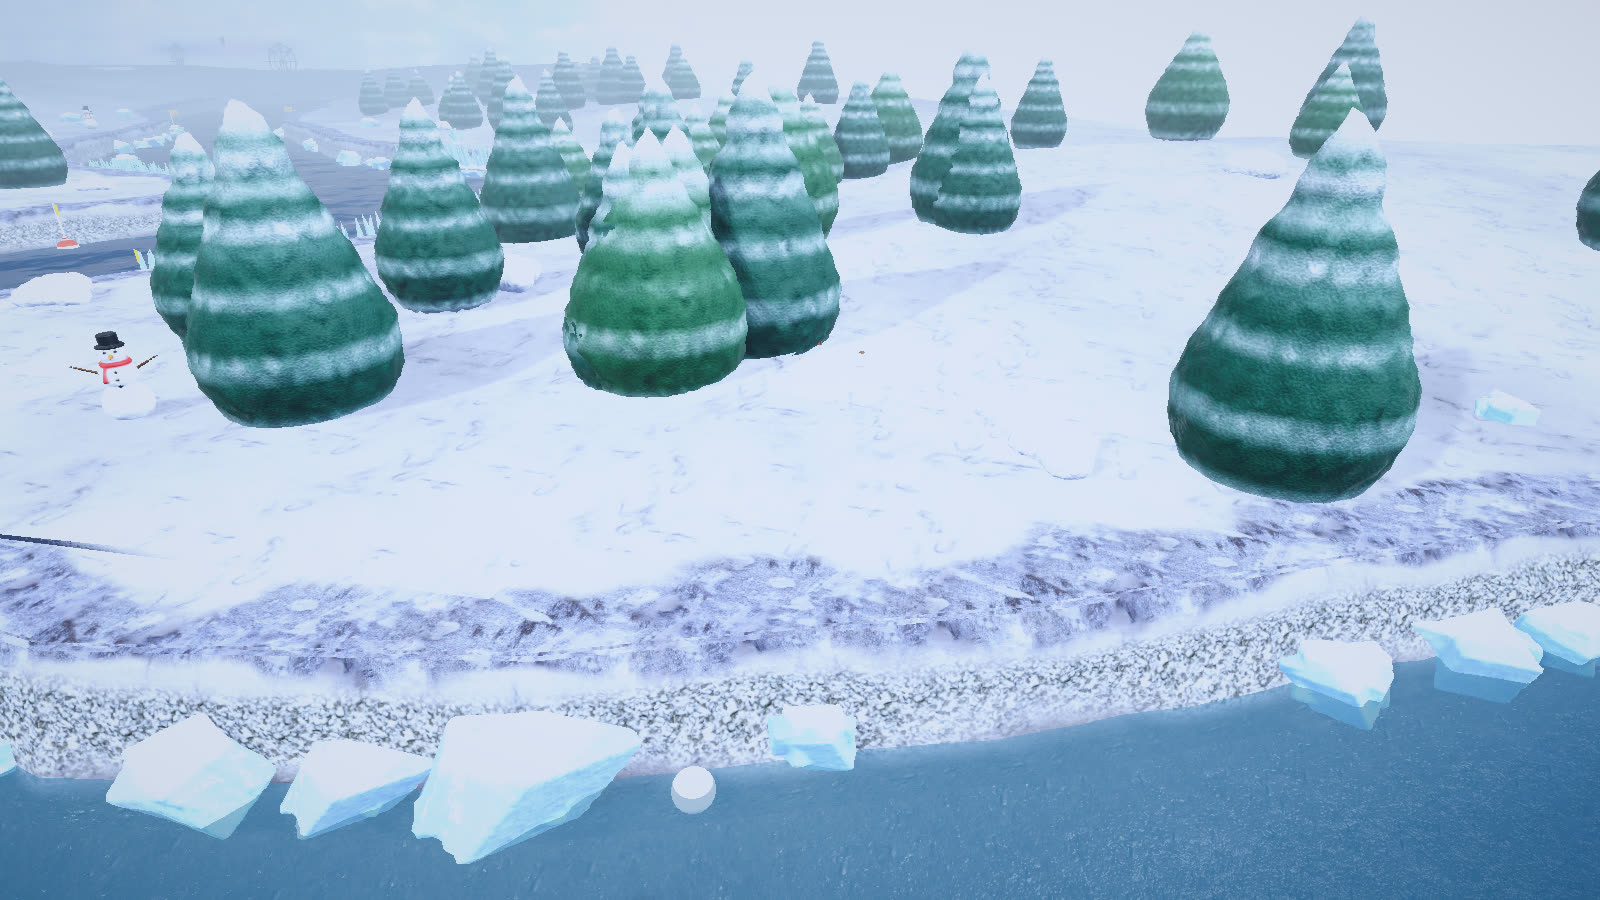
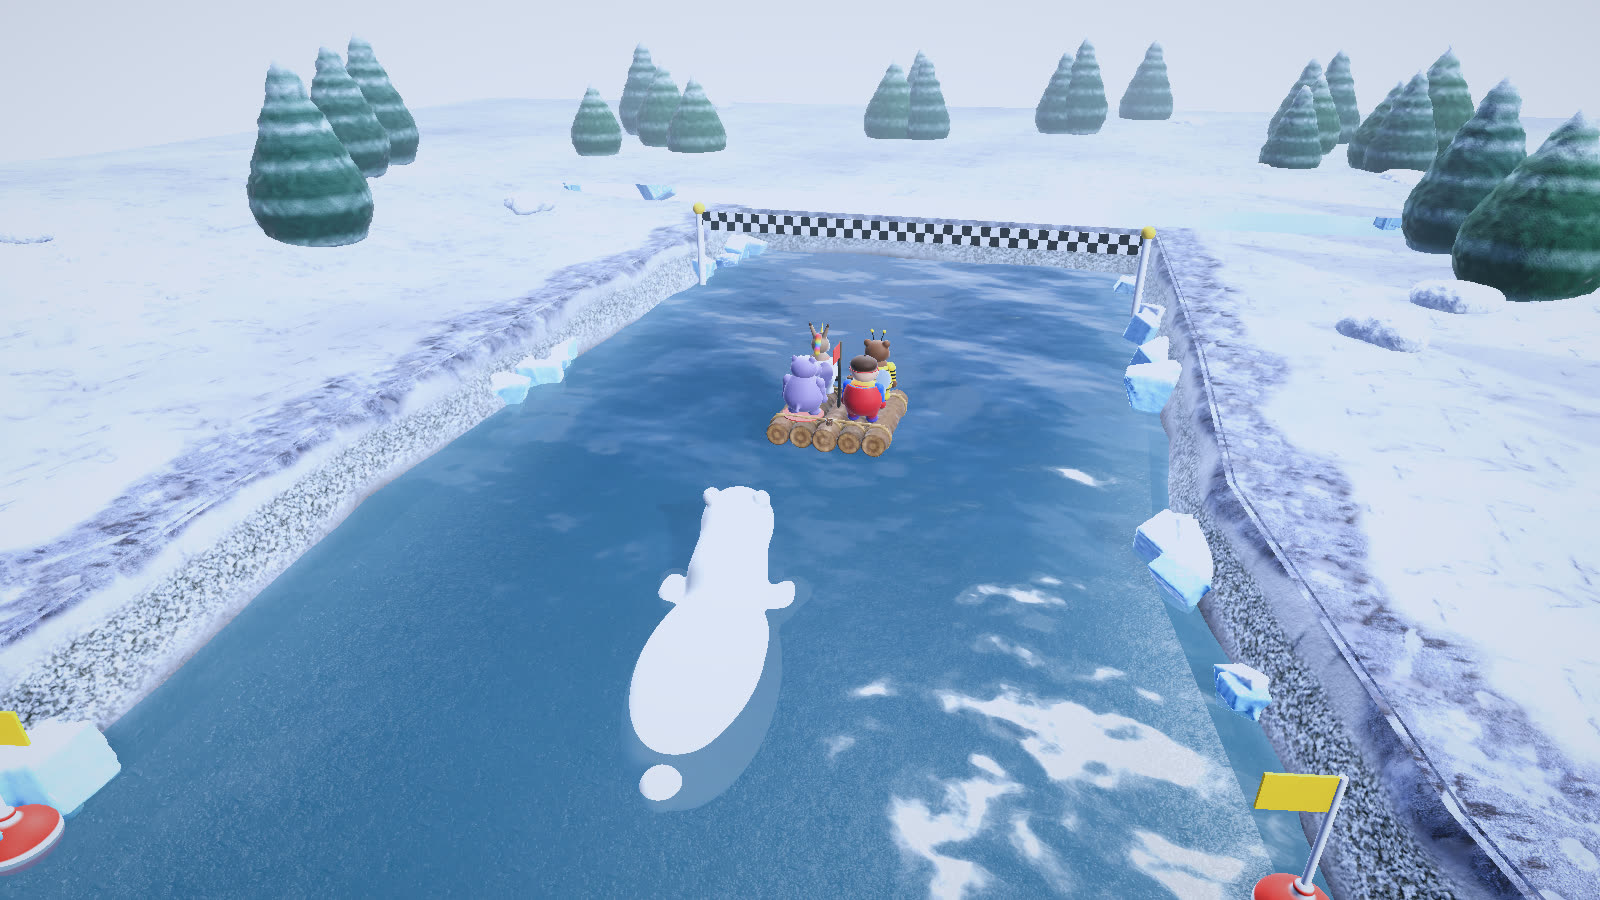
Kutup kovalamaca görseli düzeltildi, eklenti süreleri eklendi

diff --git a/index.html b/index.html
@@ -136,17 +136,17 @@ footer { margin-top: 56px; color: var(--muted); font-size: 14px; }
 </div>
 
 <h2>Eklentiler</h2>
-<p>Suda yüzen 9 eklenti; salın canı kendiliğinden dolmaz, Tamir Kiti bulmak gerekir.</p>
+<p>Suda yüzen 9 eklenti ve etki süreleri. Salın canı kendiliğinden dolmaz, Tamir Kiti bulmak gerekir.</p>
 <div class="grid items">
-  <figure><a href="images/7-eklenti-beans.jpg"><img src="images/7-eklenti-beans.jpg" alt="Kuru Fasulye" loading="lazy"></a><figcaption><strong>Kuru Fasulye</strong> · Gaz deposu ×1,5</figcaption></figure>
-  <figure><a href="images/7-eklenti-pastirma.jpg"><img src="images/7-eklenti-pastirma.jpg" alt="Pastırma" loading="lazy"></a><figcaption><strong>Pastırma</strong> · Osuruk gücü ×1,5</figcaption></figure>
-  <figure><a href="images/7-eklenti-onion.jpg"><img src="images/7-eklenti-onion.jpg" alt="Soğan" loading="lazy"></a><figcaption><strong>Soğan</strong> · Sınırsız gaz</figcaption></figure>
-  <figure><a href="images/7-eklenti-chickpea.jpg"><img src="images/7-eklenti-chickpea.jpg" alt="Nohut" loading="lazy"></a><figcaption><strong>Nohut</strong> · Herkesin gazı dolar</figcaption></figure>
-  <figure><a href="images/7-eklenti-pepper.jpg"><img src="images/7-eklenti-pepper.jpg" alt="Acı Biber" loading="lazy"></a><figcaption><strong>Acı Biber</strong> · Turbo ×2</figcaption></figure>
-  <figure><a href="images/7-eklenti-egg.jpg"><img src="images/7-eklenti-egg.jpg" alt="Haşlanmış Yumurta" loading="lazy"></a><figcaption><strong>Haşlanmış Yumurta</strong> · Zırh: hasarı emer</figcaption></figure>
-  <figure><a href="images/7-eklenti-repair.jpg"><img src="images/7-eklenti-repair.jpg" alt="Tamir Kiti" loading="lazy"></a><figcaption><strong>Tamir Kiti</strong> · Salın canı tamamen dolar</figcaption></figure>
-  <figure><a href="images/7-eklenti-bubble.jpg"><img src="images/7-eklenti-bubble.jpg" alt="Kalkan" loading="lazy"></a><figcaption><strong>Kalkan</strong> · 6 sn hiçbir şey zarar veremez</figcaption></figure>
-  <figure><a href="images/7-eklenti-magnet.jpg"><img src="images/7-eklenti-magnet.jpg" alt="Mıknatıs" loading="lazy"></a><figcaption><strong>Mıknatıs</strong> · Yakındaki eklentileri çeker</figcaption></figure>
+  <figure><a href="images/7-eklenti-beans.jpg"><img src="images/7-eklenti-beans.jpg" alt="Kuru Fasulye" loading="lazy"></a><figcaption><strong>Kuru Fasulye</strong> · 11 sn · Gaz deposu ×1,5, gaz daha hızlı dolar</figcaption></figure>
+  <figure><a href="images/7-eklenti-pastirma.jpg"><img src="images/7-eklenti-pastirma.jpg" alt="Pastırma" loading="lazy"></a><figcaption><strong>Pastırma</strong> · 9 sn · Osuruk gücü ×1,5</figcaption></figure>
+  <figure><a href="images/7-eklenti-onion.jpg"><img src="images/7-eklenti-onion.jpg" alt="Soğan" loading="lazy"></a><figcaption><strong>Soğan</strong> · 5 sn · Sınırsız gaz</figcaption></figure>
+  <figure><a href="images/7-eklenti-chickpea.jpg"><img src="images/7-eklenti-chickpea.jpg" alt="Nohut" loading="lazy"></a><figcaption><strong>Nohut</strong> · Anında · Herkesin gazı tamamen dolar</figcaption></figure>
+  <figure><a href="images/7-eklenti-pepper.jpg"><img src="images/7-eklenti-pepper.jpg" alt="Acı Biber" loading="lazy"></a><figcaption><strong>Acı Biber</strong> · 4 sn · Turbo, itiş ×2</figcaption></figure>
+  <figure><a href="images/7-eklenti-egg.jpg"><img src="images/7-eklenti-egg.jpg" alt="Haşlanmış Yumurta" loading="lazy"></a><figcaption><strong>Haşlanmış Yumurta</strong> · 9 sn · Zırh: 40 hasarı emer, bir yakalanmayı önler</figcaption></figure>
+  <figure><a href="images/7-eklenti-repair.jpg"><img src="images/7-eklenti-repair.jpg" alt="Tamir Kiti" loading="lazy"></a><figcaption><strong>Tamir Kiti</strong> · Anında · Salın canı tamamen dolar</figcaption></figure>
+  <figure><a href="images/7-eklenti-bubble.jpg"><img src="images/7-eklenti-bubble.jpg" alt="Kalkan" loading="lazy"></a><figcaption><strong>Kalkan</strong> · 6 sn · Hiçbir şey zarar veremez</figcaption></figure>
+  <figure><a href="images/7-eklenti-magnet.jpg"><img src="images/7-eklenti-magnet.jpg" alt="Mıknatıs" loading="lazy"></a><figcaption><strong>Mıknatıs</strong> · 8 sn · 14 m içindeki eklentileri çeker</figcaption></figure>
 </div>
 
 <h2>Oyun hakkında</h2>
